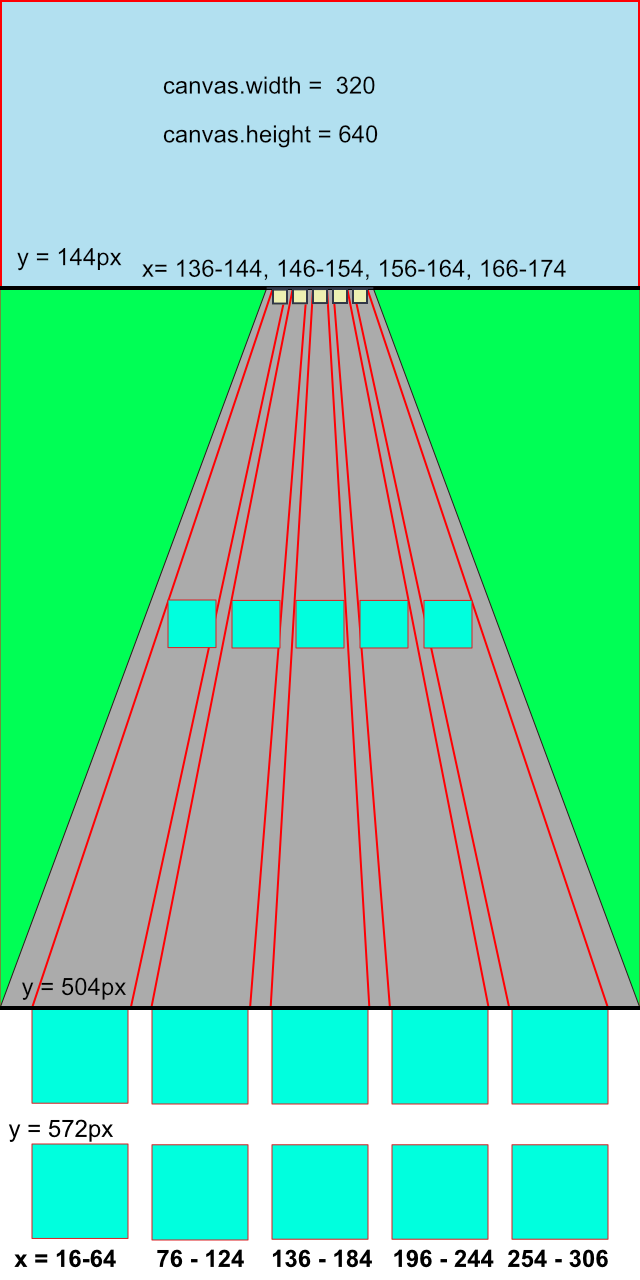
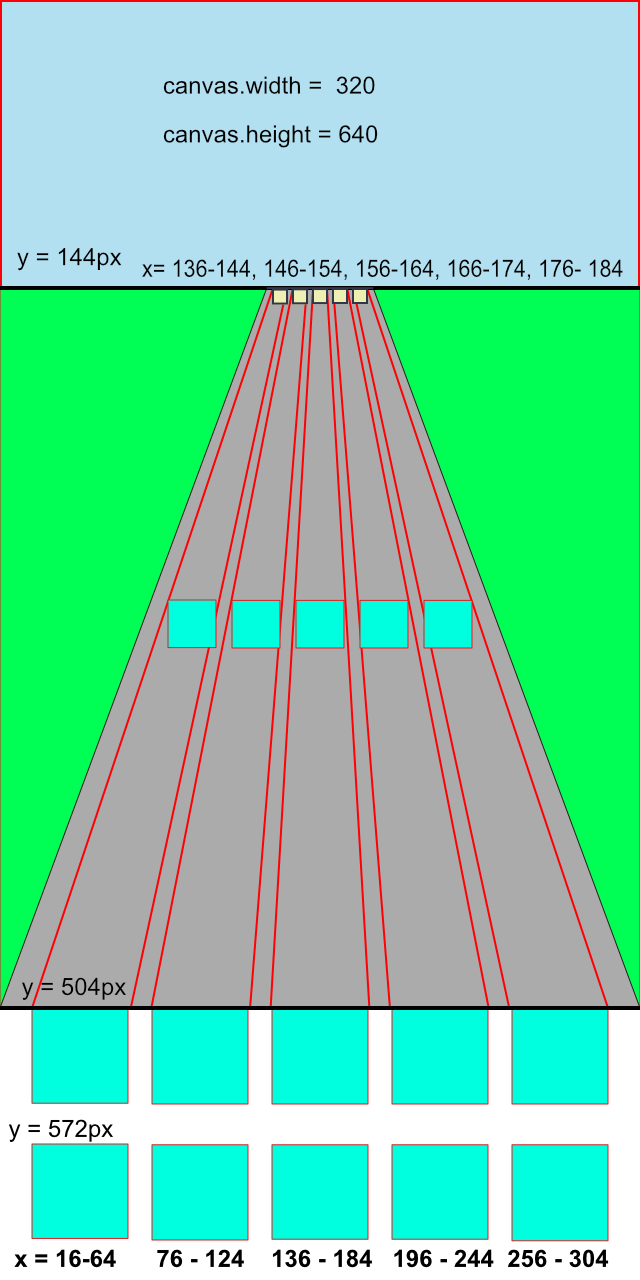
objects appear on even loop, scale accurately. collisions affect score and lives. Need to create game end conditions

diff --git a/scripts/objects.js b/scripts/objects.js
@@ -3,69 +3,84 @@ recordSprite.src = '../images/vinyl.png'
 let barrierSprite = new Image()
 barrierSprite.src ='../images/obstacle.png'
 
+
+
+
 class Object {
-    constructor(x,y,h,w,isRecord){
+    constructor(x,y,h,w,xShift,isRecord){
         this.x = x;
         this.y = y;
         this.w = w;
         this.h = h;
+        this.xShift = xShift;
         this.isRecord = isRecord
     }
-
-    draw() {
+    draw(){
         let type = barrierSprite
         if (this.isRecord) {
             type = recordSprite
         }
-        ctx.drawImage(type,this.x, this.y, this.w, this.h);
+        ctx.drawImage(type, this.x, this.y, this.w, this.h);
+
+        
     }
-    move(position){
-            this.y ++
-        if (this.y > canvas.height) {
-            this.y = 144
+move(){
+        this.y ++
+        this.y > canvas.height? this.randomize() : null;
+        if ( this.y > 144 && this.y < 504) {
+            this.x += this.xShift
+            this.h += 40/360
+            this.w += 40/360
+        }
+    }
+randomize() {
+    let startPositions = [
+        { x: 136, y: 144, w: 8, h: 8, xShift: (-120/360), isRecord: false},
+        { x: 146, y: 144, w: 8, h: 8, xShift: (-70/360), isRecord: false},
+        { x: 156, y: 144, w: 8, h: 8, xShift: (-20/360), isRecord: false},
+        { x: 166, y: 144, w: 8, h: 8, xShift: (30/360), isRecord: false},
+        { x: 176, y: 144, w: 8, h: 8, xShift: (80/360), isRecord: false}
+       ];
+
+       let r = Math.floor(Math.random() * 5)
+       this.x = startPositions[r].x
+       this.y = startPositions[r].y
+       this.w = startPositions[r].w
+       this.h = startPositions[r].h
+       this.xShift = startPositions[r].xShift
+
+       let recordRandom = !(Math.floor(Math.random() * 8))
+
+       this.isRecord = recordRandom
+}
+checkCollision(){  
+    if (this.x < cat.x + cat.w &&
+        this.x + this.w > cat.x &&
+        this.y + this.h > cat.y &&
+        this.y < cat.y + cat.h) {
+            this.isRecord ? cat.gainPoint() : cat.loseLife();
+            return 'collison!'
         }
 
-    }
-   
-}
-// Need to create an object randomiser. 
-// Need to issue a random object per time
-// Need to make a certain object a record
-// Need to sort collision cases.
-let startPositions = 
-    [{
-        x: 16;
-        y: 144;
-        w: 8;
-        h: 8;
-        isRecord: false;
-    },
-    {
-        x: 76;
-        y: 144;
-        w: 8;
-        h: 8;
-        isRecord: false;
-    },
-    {
-        x: 136;
-        y: 144;
-        w: 8;
-        h: 8;
-        isRecord: false;
-    },
-    {
-        x: 96;
-        y: 144;
-        w: 8;
-        h: 8;
-        isRecord: false;
-    },
-    {
-        x: 256;
-        y: 144;
-        w: 8;
-        h: 8;
-        isRecord: false;
-    }]
 
+}
+}
+let object0 = new Object
+let object1 = new Object
+let object2 = new Object
+let object3 = new Object
+let object4 = new Object
+let object5 = new Object
+let object6 = new Object
+let object7 = new Object
+let object8 = new Object
+let object9 = new Object
+
+
+const objectArr = [object0,object1,object2,object3,object4,object5,object6,object7,]
+
+objectArr.forEach((obj) => obj.randomize())
+
+objectArr.forEach((obj,i) => obj.y -= i * 48)
+
+console.log(objectArr)

diff --git a/scripts/cat.js b/scripts/cat.js
@@ -3,31 +3,33 @@ catSprite.src = '../images/catbutt-icons.svg'
 
 class Cat {
     constructor(){
-        this.lives = { count:3, interval: []}
-        this.score = { count:0, interval: []};
+        this.lives = 3;
+        this.score = 0;
         this.x = 136;
         this.y = 572;
         this.w = 48;
         this.h = 48;
+        this.timeout = false;
     };
+
+    collisionTimeout = () => this.timeout = false;
+
     loseLife() {
-        if (!this.lives.interval.length) {
-            this.lives.count--
-            this.lives.interval.unshift(intervalId)
-        } else if (intervalId > this.lives.interval[0] + 180) {
-            this.lives.count--
-            this.lives.interval.unshift(intervalId)
+        if (!this.timeout) {
+        this.lives --
+        this.timeout = true;
+        setTimeout(this.collisionTimeout, 1000)
         }
     };
+    
     gainPoint() {
-        if (!this.score.interval.length) {
-            this.score.count++
-            this.score.interval.unshift(intervalId)
-        } else if (intervalId > this.score.interval[0] + 180) {
-            this.score.count++
-            this.score.interval.unshift(intervalId)
-        }
+        if (!this.timeout) {
+            this.score ++
+            this.timeout = true;
+            setTimeout(this.collisionTimeout, 2000)
+            }    
     };
+
     move(direction) {
         if (direction === 'left' && this.x >= 76) {
             this.x = this.x - 60;
@@ -40,3 +42,5 @@ class Cat {
         ctx.drawImage(catSprite, this.x, this.y, this.w, this.h);
     };
 };
+
+let cat = new Cat();

diff --git a/scripts/main.js b/scripts/main.js
@@ -4,16 +4,18 @@ let ctx = canvas.getContext('2d');
 let bg = new Image();
 bg.src = '../images/bg- wireframe.png';
 
+// cat - a new Cat object called cat is created in cat.js
+// objectArr - an array of new Objects (obstacles or records) is created in objects.js
 
-let cat = new Cat()
 let intervalId = 0;
 
 function drawGame() {
     ctx.drawImage( bg, 0, 0, 320, 640)
     ctx.font = '16px "Press Start 2P"'
-    ctx.fillText(`SCORE: ${cat.score.count}`, 182, 20)
-    ctx.fillText(`LIVES: ${cat.lives.count}`, 8, 20)
+    ctx.fillText(`SCORE: ${cat.score}`, 182, 20)
+    ctx.fillText(`LIVES: ${cat.lives}`, 8, 20)
 }
+
 function endAnimation() {
     cancelAnimationFrame(intervalId)
 }
@@ -21,15 +23,16 @@ function endAnimation() {
 function animate() {
     drawGame()
     cat.draw()
+    for (let i=0; i<objectArr.length; i++) {
+        objectArr[i].draw()
+        objectArr[i].move()
+        objectArr[i].checkCollision();
+        }
 
-    
-
-    
-   
    
     intervalId = requestAnimationFrame(animate)
-    console.log(intervalId)
-if (intervalId > 500) {
+    console.log()
+if (intervalId > 2000) {
     endAnimation()
 }
     //----- End of Draw
